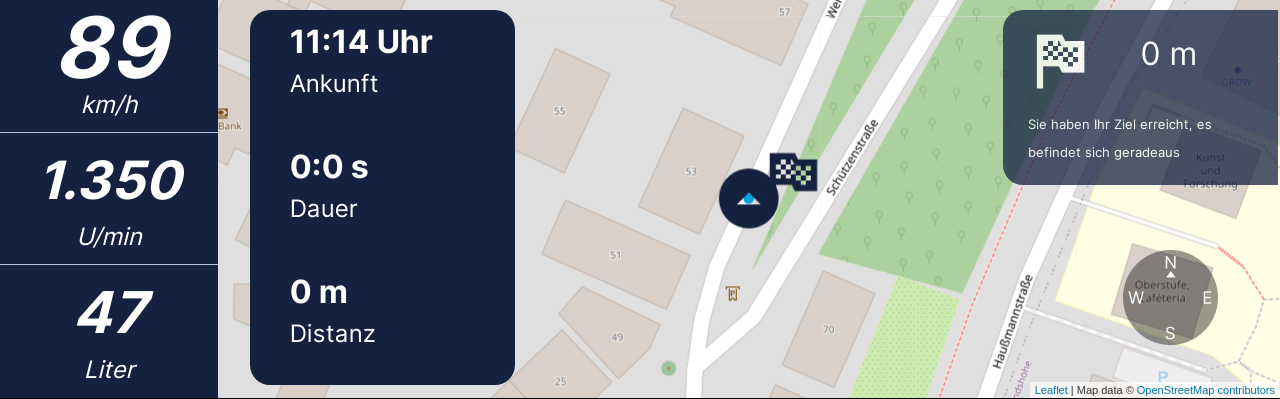
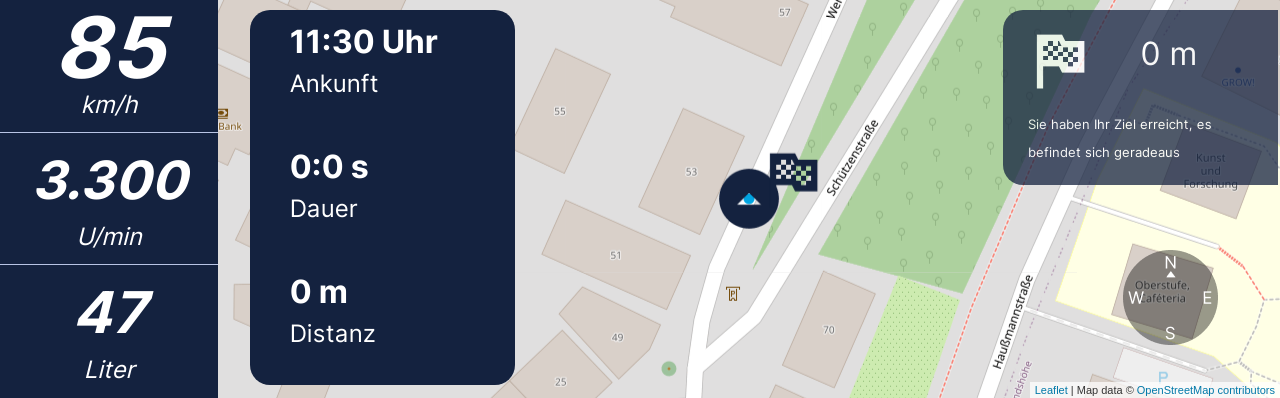
change to OSM tile; change readme

diff --git a/README.md b/README.md
@@ -25,3 +25,5 @@ If node.js/npm is not installed, make sure to install a suitable node version su
 
 It's still recommended to run the software in a AGL virtual machine. This process is more complex. For that you will need - apart from the AGL virtual machine - another Linux virtual machine to download the data and generate the wgt-file. 
 With some commands using SSH you can transfer the wgt-file to the AGL virtual machine. For that see our documentation which is not published here on GitHub. If needed, feel free to get in touch with us.
+
+![preview](readme_files/preview8.png)
